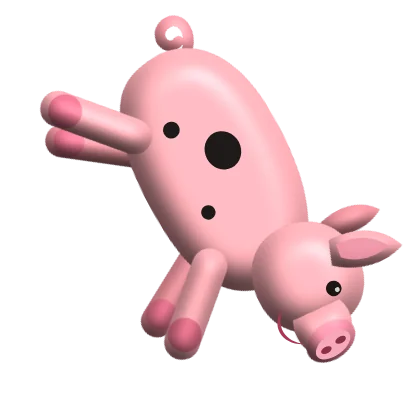
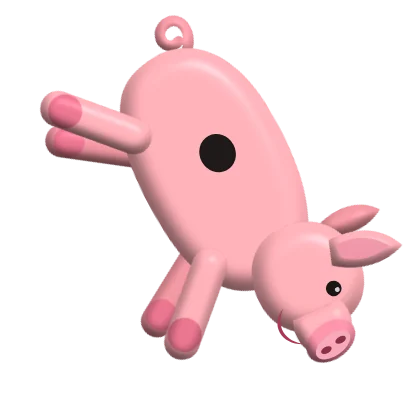
Schweinerei: hard rubber pigs with one dot
The pigs look like hard rubber now: a tighter rounded edge on every part, firmer faces
and a small satin highlight instead of the puffy, soft look. The dotted side has one black
dot, like the real pig (not three). Pigs at the table's edge stay fully on the table.

Claude-Session: https://claude.ai/code/session_012V2LcTTs5UNWAkt63McFeS

diff --git a/src/games/schweinerei/Schweinerei.tsx b/src/games/schweinerei/Schweinerei.tsx
@@ -101,7 +101,8 @@ const pigSize = (w: number, h: number) => {
 
 /** Keep a pig on the table: not off the edges, not under the result slip at the top, not under the pen button. */
 function clampSpot(x: number, y: number, w: number, pw: number): [number, number] {
-  const half = (pw / 2 / w) * 100 + 1;
+  // The whole picture (a little wider than the pig) stays on the table.
+  const half = (pw / 0.9 / 2 / w) * 100 + 1;
   let cx = Math.min(100 - half, Math.max(half, x));
   const cy = Math.min(80, Math.max(40, y));
   if (cx > 62 && cy > 64) cx = 62;
